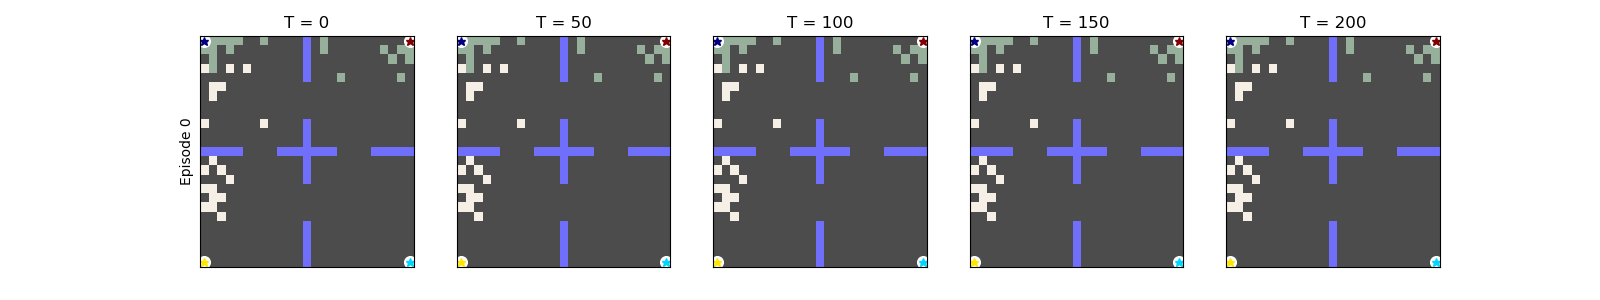
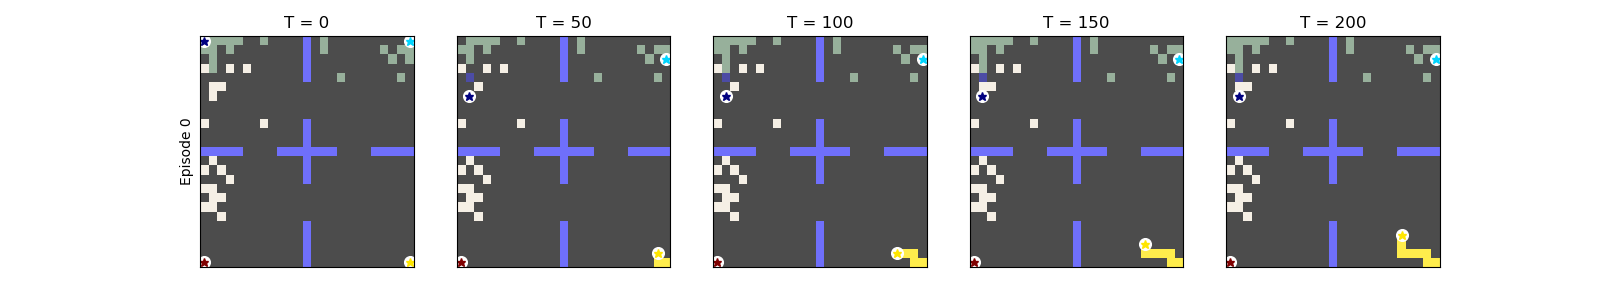
f

diff --git a/tutorials/utils/plotStuff.py b/tutorials/utils/plotStuff.py
@@ -7,7 +7,7 @@ import os
 
 base = "../rllib/phase2/dense_logs/"
 file_loc = "../rllib/phase2/ckpts/"
-log_path = os.path.join(base, "logs_0000000022728000/env000.lz4")
+log_path = os.path.join(base, "logs_0000000008400000/env000.lz4")
 dense_log = load_episode_log(log_path)
 (fig0, fig1, fig2), incomes, endows, c_trades, all_builds = plotting.breakdown(dense_log)
 fig = plotting.vis_world_range(dense_log, t0=0, tN=200, N=5)
